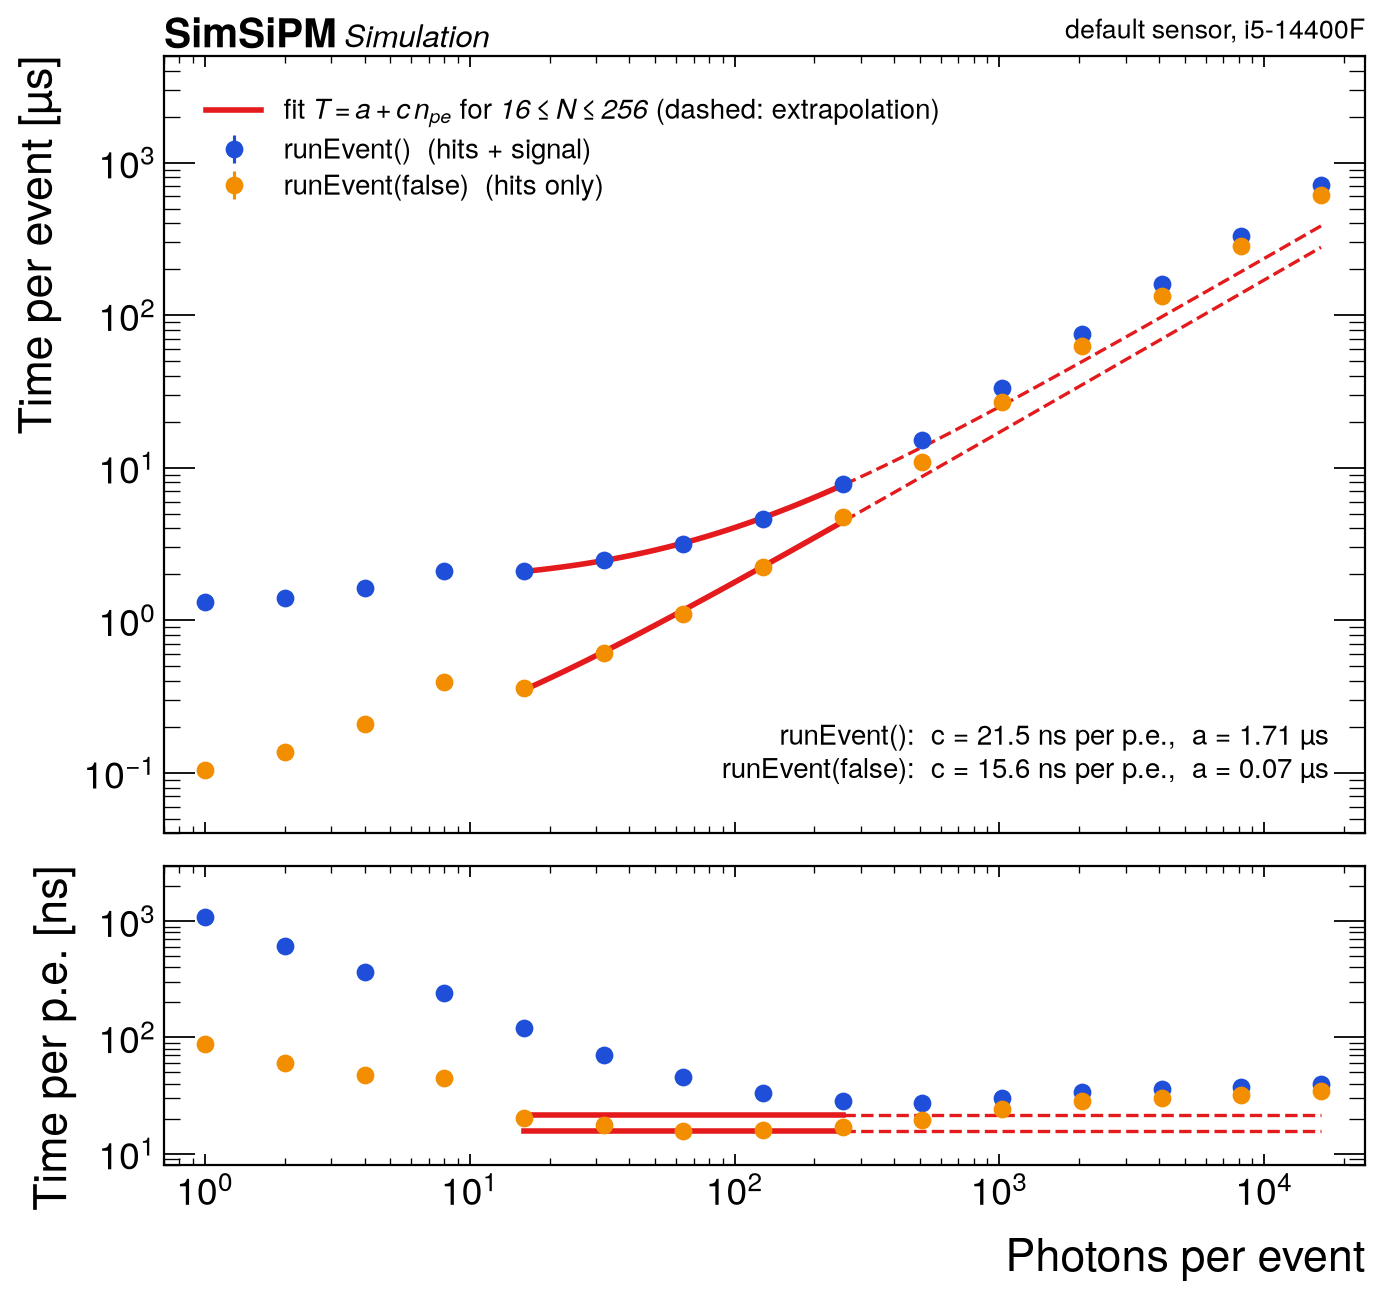
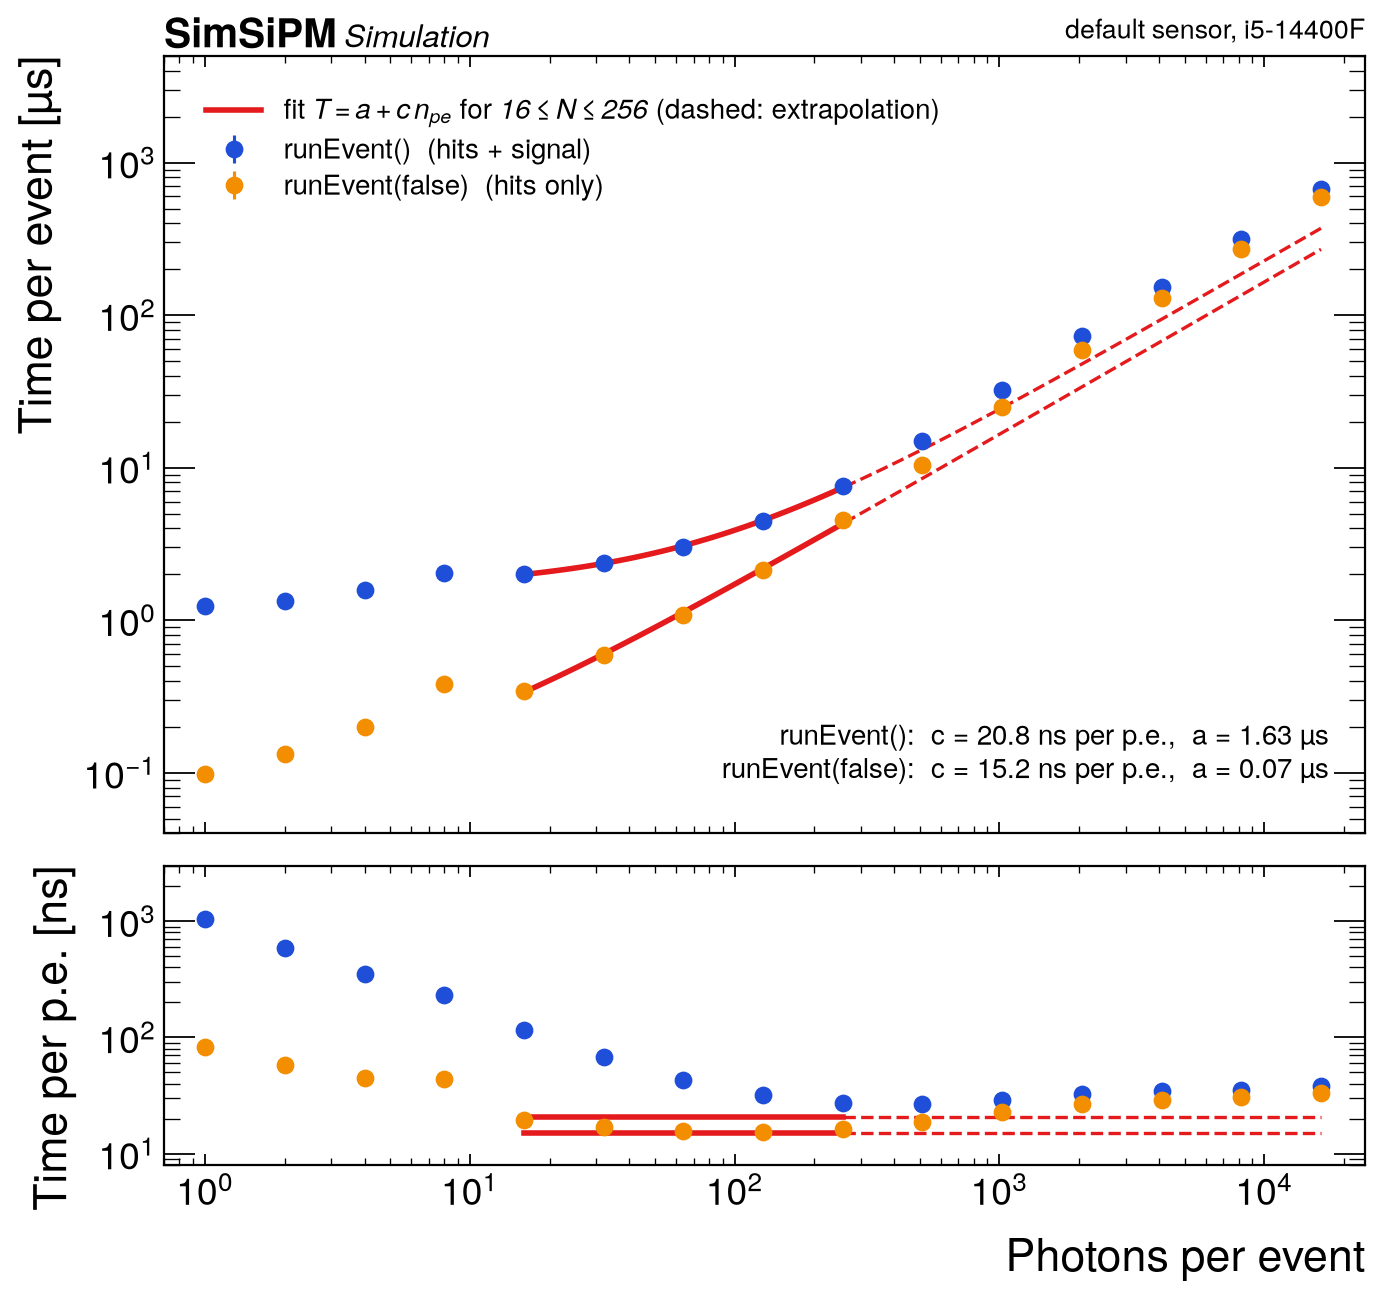
docs: PDE impact per hit cell, saturation with and without noise
- pde_impact: second row with the time per hit cell. The PDE removes
  photons and hence hits, so the total time drops, but per hit cell it is
  higher (1000 photons with signal: 29 ns without PDE, 41 flat, 57
  spectral); the README estimates the selection at about 4 ns (flat) and
  12 ns (spectral) per input photon
- saturation: every figure now shows both the integral and the peak; a
  second figure (saturation_clean) has dark counts, crosstalk and
  afterpulses off and follows the model N_cells (1 - exp(-N / N_cells))
  with both quantities. With the default noise the peak still follows the
  model while the integral of the 400-cell sensor grows above it
- README performance numbers and tables regenerated from the new data

diff --git a/docs/make_figures.py b/docs/make_figures.py
@@ -366,32 +366,50 @@ def fig_spectrum():
     save(fig, "spectrum.png")
 
 
-def fig_saturation():
-    """Response versus the number of photons for different cell sizes."""
+def _saturation(name, noise):
+    """Response versus the number of photons for different cell sizes, measured with the integral and with the peak."""
     rng = SiPM.SiPMRandom()
     n = np.unique(np.logspace(0, np.log10(30000), 20).astype(int))
-    fig, ax = plt.subplots(figsize=(9.5, 7))
+    fig, axs = plt.subplots(1, 2, figsize=(15, 6.8), gridspec_kw={"wspace": 0.22})
     for pitch, c in ((10, GREEN), (25, BLUE), (50, ORANGE)):
         p = SiPM.SiPMProperties(); p.setPitch(pitch); p.setSignalLength(400)
+        if not noise:
+            p.setDcrOff(); p.setXtOff(); p.setApOff()
         s = SiPM.SiPMSensor(p)
         ref = SiPM.SiPMSensor(clean(Pitch=pitch, SignalLength=400)); ref.addPhoton(25.0); ref.runEvent()
-        one_pe = ref.signal().integral(10, 350, -100)
-        mean, std = [], []
+        one = {"integral": ref.signal().integral(10, 350, -100), "peak": ref.signal().peak(10, 350, -100)}  # one photoelectron
+        mean = {k: [] for k in one}; std = {k: [] for k in one}
         for k in n:
-            v = []
+            v = {key: [] for key in one}
             for _ in range(10):
                 s.resetState(); s.addPhotons(list(25.0 + np.asarray(rng.randGaussian(0, 0.2, int(k))))); s.runEvent()
-                v.append(s.signal().integral(10, 350, -100) / one_pe)
-            mean.append(np.mean(v)); std.append(np.std(v))
-        data(ax, n, mean, std, color=c, label=f"{pitch} µm cells ({p.nCells()})", ms=6)
+                sig = s.signal()
+                v["integral"].append(sig.integral(10, 350, -100) / one["integral"])
+                v["peak"].append(sig.peak(10, 350, -100) / one["peak"])
+            for key in one:
+                mean[key].append(np.mean(v[key])); std[key].append(np.std(v[key]))
         cells = p.nCells()
-        ax.plot(n, cells * (1 - np.exp(-n / cells)), color=RED, lw=1.8, zorder=1)
-    ax.plot([], [], color=RED, lw=2, label=r"model $N_{cells}\,(1-e^{-N/N_{cells}})$")
-    ax.set_xscale("log"); ax.set_yscale("log"); ax.set_xlim(0.8, 4e4); ax.set_ylim(0.8, 1e5)
-    ax.set_xlabel("Photons on the sensor (all detected)"); ax.set_ylabel("Signal integral [p.e.]")
-    ax.legend(loc="upper left", fontsize=12.5)
-    tag(ax, "10 events per point")
-    save(fig, "saturation.png")
+        for ax, key in zip(axs, ("integral", "peak")):
+            data(ax, n, mean[key], std[key], color=c, label=f"{pitch} µm cells ({cells})", ms=6)
+            ax.plot(n, cells * (1 - np.exp(-n / cells)), color=RED, lw=1.8, zorder=1)
+    for ax, key in zip(axs, ("integral", "peak")):
+        ax.plot([], [], color=RED, lw=2, label=r"model $N_{cells}\,(1-e^{-N/N_{cells}})$")
+        ax.set_xscale("log"); ax.set_yscale("log"); ax.set_xlim(0.8, 4e4); ax.set_ylim(0.8, 1e5)
+        ax.set_xlabel("Photons on the sensor (all detected)"); ax.set_ylabel(f"Signal {key} [p.e.]")
+    axs[0].legend(loc="upper left", fontsize=12.5)
+    tag(axs[0], "default noise" if noise else "DCR, XT and AP off")
+    axs[1].text(1.0, 1.015, "10 events per point", transform=axs[1].transAxes, ha="right", va="bottom", fontsize=12)
+    save(fig, name)
+
+
+def fig_saturation():
+    """Saturation with the default noise."""
+    _saturation("saturation.png", True)
+
+
+def fig_saturation_clean():
+    """Saturation with dark counts, crosstalk and afterpulses switched off."""
+    _saturation("saturation_clean.png", False)
 
 
 def load_bench(kind):
@@ -434,25 +452,32 @@ def fig_benchmarks():
 
 
 def fig_pde_impact():
-    """Event time for no PDE, a flat PDE and a spectral PDE."""
+    """Event time and time per hit cell for no PDE, a flat PDE and a spectral PDE (the PDE removes photons)."""
     r = load_bench("default")
-    us = lambda key: r[key]["mean"] / 1000
-    fig, axs = plt.subplots(1, 2, figsize=(14, 6), gridspec_kw={"wspace": 0.25})
-    for ax, size, title in ((axs[0], "Photons25", "25 photons"), (axs[1], "Photons1000", "1000 photons")):
+    fig, axs = plt.subplots(2, 2, figsize=(14, 10.5), sharex="col", gridspec_kw={"wspace": 0.25, "hspace": 0.08})
+    for col, (size, title) in enumerate((("Photons25", "25 photons"), ("Photons1000", "1000 photons"))):
         names = ["None", "Flat", "Spectral"]; ks = ["NoPde", "FlatPde", "SpectralPde"]
         x = np.arange(3)
-        f = [us(f"PdeBench/{size}/{k}/Full") for k in ks]; h = [us(f"PdeBench/{size}/{k}/HitsOnly") for k in ks]
-        ef = [r[f"PdeBench/{size}/{k}/Full"]["std"] / 1000 for k in ks]; eh = [r[f"PdeBench/{size}/{k}/HitsOnly"]["std"] / 1000 for k in ks]
-        ax.bar(x - 0.19, f, 0.36, color=FULL, yerr=ef, error_kw={"elinewidth": 1.3, "ecolor": "black"}, label="runEvent()")
-        ax.bar(x + 0.19, h, 0.36, color=HITS, yerr=eh, error_kw={"elinewidth": 1.3, "ecolor": "black"}, label="runEvent(false)")
-        for xx, v in zip(x - 0.19, f): ax.text(xx, v * 1.04, f"{v:.1f}" if v < 10 else f"{v:.0f}", ha="center", va="bottom", fontsize=12)
-        for xx, v in zip(x + 0.19, h): ax.text(xx, v * 1.04, f"{v:.1f}" if v < 10 else f"{v:.0f}", ha="center", va="bottom", fontsize=12)
-        ax.set_xticks(x); ax.set_xticklabels(names); ax.set_xlabel("PDE"); ax.set_ylabel("Time per event [µs]")
-        ax.set_ylim(0, max(f + h) * 1.35)
-        ax.text(0.04, 0.95, title, transform=ax.transAxes, ha="left", va="top", fontsize=15)
-        ax.tick_params(axis="x", which="minor", bottom=False, top=False)
-    axs[0].legend(loc="upper right", fontsize=12.5)
-    tag(axs[0], "PDE impact")
+        for row, per_pe in enumerate((False, True)):
+            ax = axs[row, col]
+            vals, errs = {}, {}
+            for mode in ("Full", "HitsOnly"):
+                rec = [r[f"PdeBench/{size}/{k}/{mode}"] for k in ks]
+                div = [x_["pe"] if per_pe else 1000.0 for x_ in rec]       # ns per hit cell, or µs
+                vals[mode] = [x_["mean"] / d for x_, d in zip(rec, div)]
+                errs[mode] = [x_["std"] / d for x_, d in zip(rec, div)]
+            for off, mode, color, label in ((-0.19, "Full", FULL, "runEvent()"), (0.19, "HitsOnly", HITS, "runEvent(false)")):
+                ax.bar(x + off, vals[mode], 0.36, color=color, yerr=errs[mode], error_kw={"elinewidth": 1.3, "ecolor": "black"}, label=label)
+                for xx, v in zip(x + off, vals[mode]):
+                    ax.text(xx, v * 1.03, f"{v:.1f}" if v < 10 else f"{v:.0f}", ha="center", va="bottom", fontsize=12)
+            ax.set_ylim(0, max(vals["Full"] + vals["HitsOnly"]) * 1.3)
+            ax.set_ylabel("Time per p.e. [ns]" if per_pe else "Time per event [µs]")
+            ax.tick_params(axis="x", which="minor", bottom=False, top=False)
+            if row == 0:
+                ax.text(0.04, 0.95, title, transform=ax.transAxes, ha="left", va="top", fontsize=15)
+        axs[1, col].set_xticks(x); axs[1, col].set_xticklabels(names); axs[1, col].set_xlabel("PDE")
+    axs[0, 0].legend(loc="upper right", fontsize=12.5)
+    tag(axs[0, 0], "PDE impact")
     save(fig, "pde_impact.png")
 
 

diff --git a/README.md b/README.md
@@ -529,9 +529,15 @@ With a pulsed light source the integral of the signal shows the characteristic p
 <p align="center"><img src="images/spectrum.png" width=640></p>
 
 ### Saturation
-A SiPM has a finite number of cells and a cell that has just fired cannot fire again at full amplitude: the response is linear for few photons and saturates when the number of photons approaches the number of cells. Smaller cells mean more cells, hence a larger dynamic range. The red curves are the simple model $N_{cells}(1-e^{-N/N_{cells}})$ of the number of fired cells; the simulation also contains crosstalk and afterpulses, which fire additional cells, so with the 50 µm cells (only 400) the simulated response keeps growing slowly above the model.
+A SiPM has a finite number of cells and a cell that has just fired cannot fire again at full amplitude: the response is linear for few photons and saturates when the number of photons approaches the number of cells. Smaller cells mean more cells, hence a larger dynamic range. The figures show the response to a burst of simultaneous photons (all detected), measured both with the integral and with the peak of the signal, for three cell sizes (10 events per point). The red curves are the simple model $N_{cells}(1-e^{-N/N_{cells}})$ of the number of fired cells.
 
-<p align="center"><img src="images/saturation.png" width=560></p>
+With the dark counts, crosstalk and afterpulses switched off the simulation follows the model, with both the integral and the peak:
+
+<p align="center"><img src="images/saturation_clean.png" width=820></p>
+
+With the default noise the peak still follows the model, but the integral of the sensor with the largest cells (only 400) keeps growing slowly above it: the noise hits that arrive after the light pulse add charge to the integral, while they cannot increase the peak measured at the time of the light.
+
+<p align="center"><img src="images/saturation.png" width=820></p>
 
 ## Performance
 SimSiPM is designed to simulate millions of events. The numbers below are the **time to simulate one complete event** (reset, input of the photons, `runEvent`) on a default sensor (1 mm, 25 µm cells, 500 ns window, DCR 200 kHz, XT 5 %, AP 3 %), with photon times following a scintillation-like exponential decay. Full means `runEvent()` (hits and signal), hits only means `runEvent(false)`.
@@ -539,45 +545,45 @@ SimSiPM is designed to simulate millions of events. The numbers below are the **
 ### Time versus number of photons
 <p align="center"><img src="images/benchmarks.png" width=640></p>
 
-The plot shows the time of one event for 1 to 16384 photons (powers of two, mean and standard deviation of 7 repetitions), and below it the time per hit cell ("p.e.": photoelectrons plus the crosstalk, afterpulse and dark-count hits they generate, about 1.09 per photon here). Up to a few hundred photoelectrons the time is linear in the number of hit cells, $T = a + c\,n_{pe}$ (red line, fitted on 16 to 256 photons):
+The plot shows the time of one event for 1 to 16384 photons (powers of two, mean and standard deviation of 25 repetitions), and below it the time per hit cell ("p.e.": photoelectrons plus the crosstalk, afterpulse and dark-count hits they generate, about 1.09 per photon here). Up to a few hundred photoelectrons the time is linear in the number of hit cells, $T = a + c\,n_{pe}$ (red line, fitted on 16 to 256 photons):
 
 | | `runEvent()` | `runEvent(false)` |
 |---|---|---|
-| Time per hit cell $c$ | 21.5 ns | 15.6 ns |
-| Fixed cost per event $a$ | 1.71 µs | ≈ 0 |
+| Time per hit cell $c$ | 20.8 ns | 15.2 ns |
+| Fixed cost per event $a$ | 1.63 µs | ≈ 0 |
 
-The fixed cost is the electronic noise of the waveform, which is not generated when the signal is skipped. Above a few hundred photoelectrons the cost per hit cell grows slowly (the dashed extrapolation of the fit falls below the points): at 1000 photons it is 30 ns with the signal and 24 ns without, and at 16384 photons 40 ns and 34 ns. The pulses of the hits are summed with a recursive convolution, whose cost grows very slowly with the number of hits.
+The fixed cost is the electronic noise of the waveform, which is not generated when the signal is skipped. Above a few hundred photoelectrons the cost per hit cell grows slowly (the dashed extrapolation of the fit falls below the points): at 1000 photons it is 29 ns with the signal and 23 ns without, and at 16384 photons 38 ns and 33 ns. The pulses of the hits are summed with a recursive convolution, whose cost grows very slowly with the number of hits.
 
 ### Typical events
 | Event | `runEvent()` | `runEvent(false)` | `runEvent()`, `-march=native` | `runEvent(false)`, `-march=native` |
 |---|---|---|---|---|
-| Empty event | 1.16 µs | 0.07 µs (16.6× faster) | 0.62 µs | 0.06 µs |
-| 25 photons | 2.34 µs | 0.53 µs (4.4× faster) | 1.46 µs | 0.51 µs |
-| 1000 photons | 33.4 µs | 26.1 µs (1.3× faster) | 31.2 µs | 24.6 µs |
+| Empty event | 1.13 µs | 0.07 µs (17.3× faster) | 0.57 µs | 0.06 µs |
+| 25 photons | 2.21 µs | 0.50 µs (4.4× faster) | 1.37 µs | 0.47 µs |
+| 1000 photons | 31.1 µs | 24.5 µs (1.3× faster) | 28.9 µs | 22.2 µs |
 
-Median of 7 repetitions, Intel Core i5-14400F, Linux (WSL2), clang, `-O3 -ffast-math`; the last two columns also use `-march=native` (AVX2 + FMA), which mostly helps small events because the generation of the electronic noise is vectorized. The relative spread of the repetitions is below 9 %. Skipping the signal makes an empty event 17 times faster and a 25-photon event 4.4 times faster.
+Median of 25 repetitions, Intel Core i5-14400F, Linux (WSL2), clang, `-O3 -ffast-math`; the last two columns also use `-march=native` (AVX2 + FMA), which mostly helps small events because the generation of the electronic noise is vectorized. The relative spread of the repetitions is below 7 %. Skipping the signal makes an empty event 17 times faster and a 25-photon event 4.4 times faster.
 
 ### Impact of the PDE
-With a PDE the photons that are not detected are discarded early, so they do not produce hits, crosstalk, afterpulses and pulses. The PDE selection itself costs a random number per photon (and a table lookup per photon for the spectral PDE), which is cheaper than what it saves when there are many photons: the same 1000 photons are simulated faster with a PDE than without it. For small events the saving is too small to see, and the PDE costs a few tenths of a microsecond more. The table compares the same input photons (wavelengths between 400 and 600 nm); the spectral PDE averages 42 % on this range, like the flat one.
+A PDE removes the photons that are not detected, so they do not produce hits, crosstalk, afterpulses and pulses, and the event is faster. This is partly an illusion: there are simply fewer hits to process. The fair comparison is the time per hit cell (lower row of the figure and the table), and it goes **up** with a PDE: every input photon pays for the selection (a random number, plus an interpolation in the table of the spectrum for the spectral PDE) while only the detected ones become hits. With 1000 photons and the signal the cost per hit cell is 29 ns without PDE, 41 ns with the flat PDE and 57 ns with the spectral one. Taking the hits at the cost per hit cell of the no-PDE case, the selection itself costs about 4 ns per input photon with the flat PDE and 12 ns with the spectral PDE (an estimate from the 1000-photon hits-only events). For 25 photons the fixed costs of the event dominate, so the time per hit cell is large in all cases and the PDE costs a few tenths of a microsecond more. The table compares the same input photons (wavelengths between 400 and 600 nm); the spectral PDE averages 42 % on this range, like the flat one.
 
 <p align="center"><img src="images/pde_impact.png" width=760></p>
 
-| Photons | PDE | Hits from photons | `runEvent()` | `runEvent(false)` |
-|---|---|---|---|---|
-| 25 | none | ≈ 25 | 2.34 µs | 0.49 µs |
-| 25 | flat, 42 % | ≈ 10 | 2.44 µs | 0.69 µs |
-| 25 | spectral, 42 % on average | ≈ 10 | 2.62 µs | 0.89 µs |
-| 1000 | none | ≈ 1000 | 32.5 µs | 26.3 µs |
-| 1000 | flat, 42 % | ≈ 420 | 20.0 µs | 15.5 µs |
-| 1000 | spectral, 42 % on average | ≈ 418 | 28.0 µs | 23.8 µs |
+| Photons | PDE | Hit cells (measured) | `runEvent()` | per hit cell | `runEvent(false)` | per hit cell |
+|---|---|---|---|---|---|---|
+| 25 | none | 27 | 2.26 µs | 83 ns | 0.50 µs | 18 ns |
+| 25 | flat, 42 % | 12 | 2.32 µs | 202 ns | 0.66 µs | 57 ns |
+| 25 | spectral, 42 % on average | 11 | 2.47 µs | 215 ns | 0.80 µs | 70 ns |
+| 1000 | none | 1087 | 31.6 µs | 29 ns | 24.4 µs | 22 ns |
+| 1000 | flat, 42 % | 457 | 18.6 µs | 41 ns | 14.7 µs | 32 ns |
+| 1000 | spectral, 42 % on average | 454 | 25.8 µs | 57 ns | 22.3 µs | 49 ns |
 
-Even so, the fastest option for the whole simulation is still to apply the PDE before the photons are generated and tracked (`kNoPde` with only the detected photons), because it saves the tracking time too. The spectral PDE costs about 8 ns more per photon than the flat one with the default flags (an interpolation in the table of the spectrum), and more with `-march=native` in this build, so for very large numbers of photons a flat PDE is cheaper when it is accurate enough.
+The total time of a large event is still lower with a PDE because the detected hits are what costs most. Even so, the fastest option for the whole simulation is to apply the PDE before the photons are generated and tracked (`kNoPde` with only the detected photons): the rejected photons then cost nothing, not even the selection, and the tracking time is saved too.
 
 To reproduce the numbers on your machine:
 ```sh
 cmake -B build -S . -DSIPM_ENABLE_BENCH=ON
 cmake --build build -j
-./build/bench/events --benchmark_repetitions=7 --benchmark_report_aggregates_only=true
+./build/bench/events --benchmark_repetitions=25 --benchmark_report_aggregates_only=true
 ```
 `bench/sensor` and `bench/random` have many more benchmarks (every phase of the event, geometry, signal length, random number generators). Instruction level profiling is described at the top of `bench/sensor.cpp`.
 
